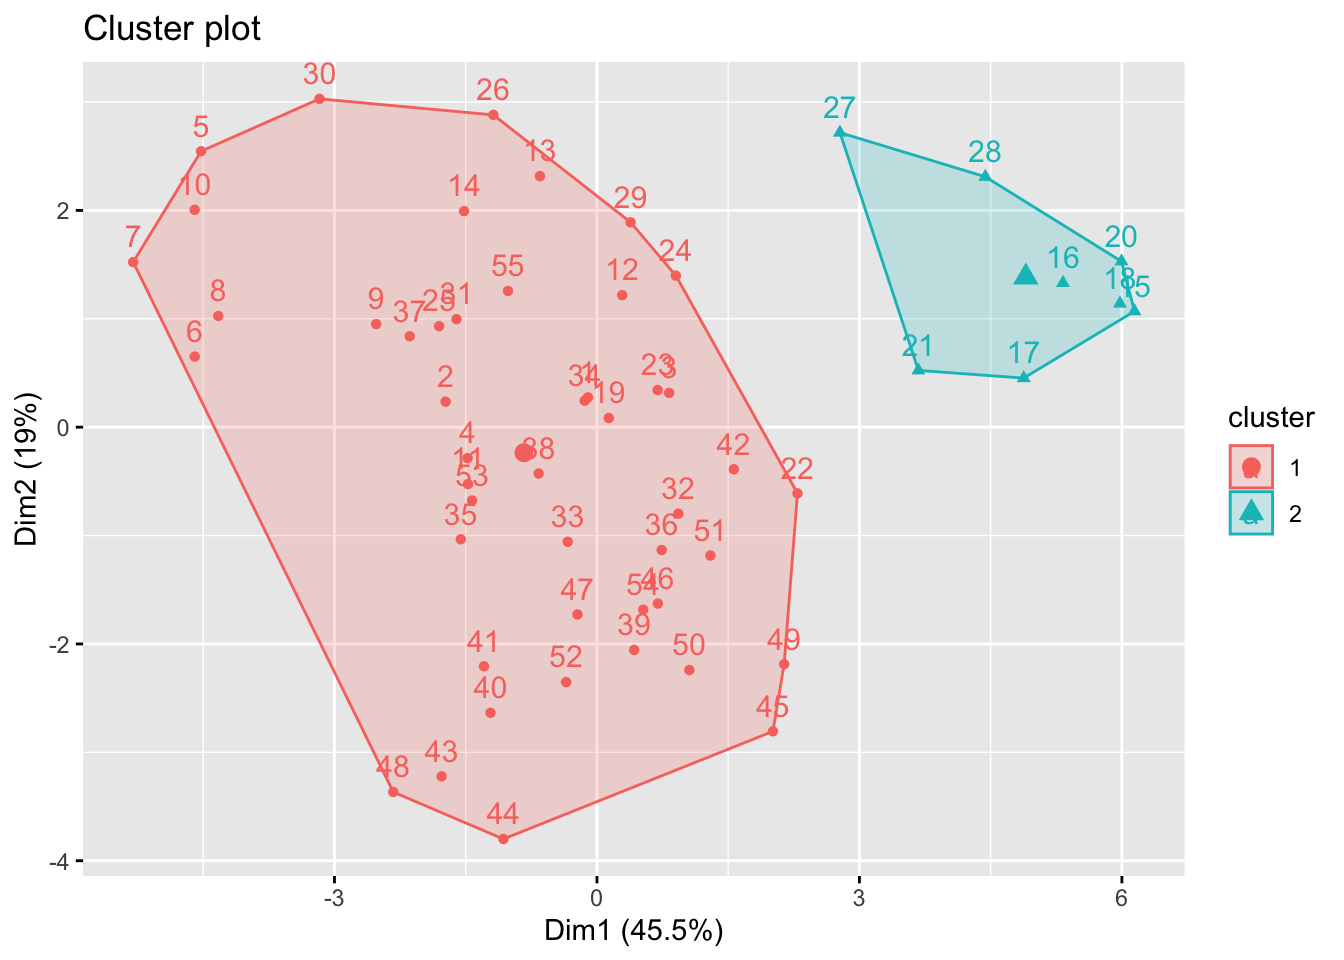
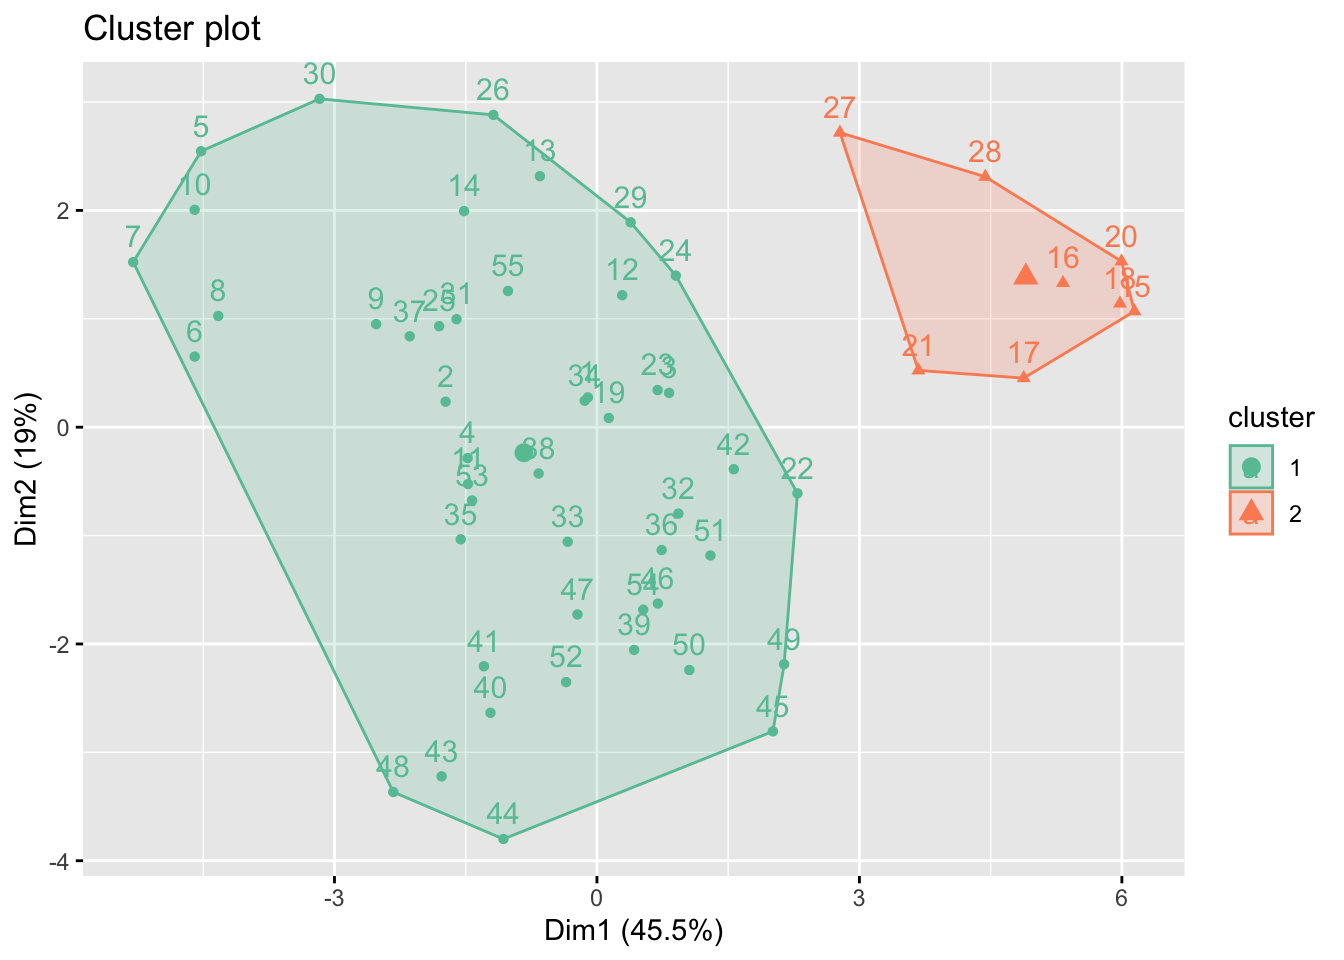
Fixed prediction modeling

diff --git a/additional_prediction.html b/additional_prediction.html
@@ -381,9 +381,9 @@ div.tocify {
 
 <div id="risk-scoring" class="section level2">
 <h2>Risk Scoring</h2>
-<p>Following our regression work, we decided to make our insights more actionable by developing a novel scoring method capable of indicating whether a PUMA is at relatively lower or higher risk of achieving some COVID-19-related outcome. To demonstrate the method, we developed a risk score for whether a PUMA is likely to have achieved or not achieved a vaccination rate of 70% among residents, corresponding to the level of population immunity generally considered requisite to “halt the pandemic.” That said, our method is applicable to other outcomes as well, and one might imagine using it to score a given PUMA on the possibility of a hospitalization rate above X%, or a death rate above Y%.</p>
-<p>The risk scoring method we developed is predicated on (regularized, lasso) logistic regression, used most often for classification tasks because predictions can be interpreted as class probabilities. Regularization further prevents over-fitting of the model.</p>
-<p>First, we defined outcomes as 1 for below 70% vaccination and 0 for equal to or above 70% vaccination and converted our set of predictors to matrix form.</p>
+<p>Following our regression work, we decided to make our insights more actionable by developing a novel scoring method capable of indicating whether a PUMA is at relatively lower or higher risk of achieving some COVID-19-related outcome. To demonstrate the method, we developed a risk score for whether a PUMA is likely to achieve the 70% resident vaccination rate, which has been <a href="https://www.ama-assn.org/delivering-care/public-health/what-doctors-wish-patients-knew-about-covid-19-herd-immunity#:~:text=Some%20epidemiologists%20have%20estimated%20that,already%20killed%20over%20620%2C000%20Americans.">considered by many scientists</a> (pre-delta, at least!) as the requite immunization level required for herd immunity to “halt the pandemic.” That said, our method is applicable to other outcomes as well, and one might imagine using it to score a given PUMA on the possibility of a hospitalization rate above X%, or a death rate above Y%.</p>
+<p>The risk scoring method we developed is predicated on regularized logistic regression, used most often for classification tasks because predictions can be interpreted as class probabilities. Regularization further prevents over-fitting of the model.</p>
+<p>First, we defined our binary outcome: 1 for below 70% vaccination, and 0 for equal to or above 70% vaccination. Then, we converted our set of predictors to matrix form.</p>
 <pre class="r"><code># 1 indicates BELOW 70% vaccination rate
 logistic_df = nyc_puma_summary %&gt;% 
   mutate(
@@ -396,7 +396,7 @@ x = model.matrix(below_herd_vax ~ ., logistic_df)[,-1]
 
 # Define outcomes
 y = logistic_df$below_herd_vax</code></pre>
-<p>We then trained a glmnet model on our training data using 5-fold cross-validation repeated 100 times given the large number of predictors compared to our mere 55 PUMA samples, and because we were interested in predicting the risk score of vaccination rate for each PUMA in our data set (see code below).</p>
+<p>We proceeded to train a glmnet lasso model on our training data using 5-fold cross-validation repeated 100 times given the large number of predictors compared to our mere 55 PUMA samples, and because we were interested in predicting the risk score of vaccination rate for each PUMA in our data set:</p>
 <pre class="r"><code>set.seed(777)
 vax_cv &lt;- trainControl(method = &quot;repeatedcv&quot;, number = 5, repeats = 100, 
                        savePredictions = T
@@ -410,7 +410,7 @@ lasso_model &lt;- train(below_herd_vax ~ ., data = logistic_df,
                        .alpha = 1,
                        .lambda = seq(0.0001, 1, length = 100)),
                      family = &quot;binomial&quot;)</code></pre>
-<p>Through our lasso regression, we found an optimal lambda tuning parameter of 0.0102, and generated a model prediction accuracy of 0.886 (~87%). Generally, however, obtaining the kappa value averaged over the simulated confusion matrices is a more useful metric for prediction given unbalanced classes (of our 55 PUMAs, 41 achieve vaccination rate &gt;= 70%, and only 14 do not).</p>
+<p>Through our lasso regression, we found an optimal lambda tuning parameter of 0.0102, and generated a model prediction accuracy of 0.886 (~89%). Generally, however, obtaining the kappa value averaged over the simulated confusion matrices is a more useful metric for prediction given unbalanced classes (of our 55 PUMAs, only 14 actually achieved vaccination rate &gt;= 70% at time of data entry, while 41 did not).</p>
 <div id="confusion-matrix" class="section level3">
 <h3>Confusion Matrix</h3>
 <pre class="r"><code>coef &lt;- coef(lasso_model$finalModel, lasso_model$bestTune$lambda)
@@ -471,15 +471,18 @@ cm = caret::confusionMatrix(table(sub_lasso$pred, sub_lasso$obs))
 
 draw_confusion_matrix(cm)</code></pre>
 <p><img src="additional_prediction_files/figure-html/resulting%20confusion%20matrix-1.png" width="672" /></p>
-<p>Our optimal model’s averaged kappa was 0.63, which is considered reasonably decent, but again suggests that the limited number of in-sample data points may result in model over-fitting.</p>
-<p>Notably, feature selection from our lasso regression discovered that the most important predictors of risk for sub-70% vaccination were insurance composition, employment composition, poverty composition, and welfare composition in a given PUMA – largely aligned with key correlates of vaccination noted in our exploratory analysis.</p>
+<p>Our optimal model’s averaged kappa was 0.63, which is considered <a href="https://www.ncbi.nlm.nih.gov/pmc/articles/PMC3900052/">reasonably decent, or “moderate,”</a>, but again suggests that the limited number of in-sample data points may result in model over-fitting.</p>
 </div>
 <div id="feature-selection" class="section level3">
 <h3>Feature Selection</h3>
-<pre class="r"><code>lambda  &lt;- seq(0.0001, 1, length = 100)
+<p>Notably, feature selection from our lasso regression discovered that the most important predictors of risk for sub-70% vaccination were insurance composition, employment composition, poverty composition, and welfare composition in a given PUMA – largely aligned with key correlates of vaccination noted in our exploratory analysis.</p>
+<pre class="r"><code># Set grid for lambda values
+lambda  &lt;- seq(0.0001, 1, length = 100)
 
+# Select best lambda
 lambda_opt = lasso_model$bestTune$lambda
 
+# Plot coefficient estimates as lambda varies
 result_plot &lt;- broom::tidy(lasso_model$finalModel) %&gt;% 
   select(term, lambda, estimate) %&gt;% 
   complete(term, lambda, fill = list(estimate = 0) ) %&gt;% 
@@ -492,11 +495,12 @@ result_plot &lt;- broom::tidy(lasso_model$finalModel) %&gt;%
 
 result_plot</code></pre>
 <p><img src="additional_prediction_files/figure-html/plotting%20predictors%20against%20lambda-1.png" width="672" /></p>
-<p>Again, we wanted to move beyond binary classification to develop a risk score. Generally, in logistic regression, when a data point is predicted with probability &gt; 0.5 to be a “1,” the model classifies it as a 1, and otherwise as a 0. We obtained risk scores not only by classifying PUMAs as above or below 70% vaccination rate using our prediction model, but by obtaining the exact probability of a given data point being a 1. For instance, if a PUMA has an 85% chance of being below 70% vaccination rate according to our classifier, its risk score would be 85, even though our model would binarily predict it to be a “1” rather than a “0.”</p>
 </div>
 <div id="risk-score-prediction" class="section level3">
 <h3>Risk Score Prediction</h3>
-<pre class="r"><code>lambda &lt;- lasso_model$bestTune$lambda
+<p>Again, we wanted to move beyond binary classification to develop a risk score. Generally, in logistic regression, when a data point is predicted with probability &gt; 0.5 to be a “1,” the model classifies it as a 1, and otherwise as a 0. We obtained risk scores not only by classifying PUMAs as above or below 70% vaccination rate using our prediction model, but by obtaining the exact probability of a given data point being a 1. For instance, if a PUMA has an 85% chance of being below 70% vaccination rate according to our classifier, its risk score would be 85, even though our model would binarily predict it to be a “1” rather than a “0.”</p>
+<pre class="r"><code># Finalize risk predictions
+lambda &lt;- lasso_model$bestTune$lambda
 lasso_fit = glmnet(x, y, lambda = lambda, family = &quot;binomial&quot;)
 risk_predictions = (round((predict(lasso_fit, x, type = &quot;response&quot;))*100, 1))
 
@@ -506,10 +510,12 @@ puma &lt;- nyc_puma_summary %&gt;%
 vax &lt;- logistic_df %&gt;% 
   select(below_herd_vax)
 
+# Bind predictions and actuals for graphing / risk scores
 risk_prediction &lt;- 
   bind_cols(puma, vax, as.vector(risk_predictions)) %&gt;%
   rename(risk_prediciton = ...3)
 
+# Plot risk predictions
 risk_prediction %&gt;%
   mutate(puma = fct_reorder(puma, risk_prediciton, .desc = TRUE)) %&gt;%
   ggplot(aes(x = puma, y = risk_prediciton, fill = below_herd_vax)) + 
@@ -518,7 +524,7 @@ risk_prediction %&gt;%
   theme(axis.text.x = element_text(angle = 90, vjust = 0.5, hjust = 1)) +
   labs(title = &quot;Predicting Risk Score of Vaccination Rate across PUMA&quot;,
        x = &quot;PUMA&quot;, y = &quot;Predicted Risk Score&quot;, fill = &quot;Actual Vax Status&quot;) + 
-  scale_fill_viridis(discrete = TRUE, labels = c(&quot;Below 70%&quot;, &quot;Above 70%&quot;))</code></pre>
+  scale_fill_viridis(discrete = TRUE, labels = c(&quot;Above 70%&quot;, &quot;Below 70%&quot;))</code></pre>
 <p><img src="additional_prediction_files/figure-html/visualizing%20risk%20scores%20by%20PUMA-1.png" width="672" /></p>
 </div>
 </div>
@@ -585,7 +591,7 @@ fviz_dist(distance, gradient = list(low = &quot;#00AFBB&quot;, mid = &quot;white
 k_scaled = kmeans(for_clustering, centers = 3)
 
 # Visualize cluster plot with reduction to two dimensions
-fviz_cluster(k_scaled, data = for_clustering)</code></pre>
+fviz_cluster(k_scaled, data = for_clustering, palette = &quot;Set2&quot;)</code></pre>
 <p><img src="additional_prediction_files/figure-html/scaled%20clustering-2.png" width="672" /></p>
 <pre class="r"><code># Bind with outcomes and color clusters
 full_df = for_clustering %&gt;% 
@@ -596,14 +602,18 @@ full_df = for_clustering %&gt;%
   )</code></pre>
 <p>Because we settled on setting the number of clusters at three relatively arbitrarily, we decided to evaluate the clustering quality using both WSS, silhouette, and gap methods.</p>
 <pre class="r"><code># Check where elbow occurs using WSS method
-fviz_nbclust(for_clustering, kmeans, method = &quot;wss&quot;)</code></pre>
+fviz_nbclust(for_clustering, kmeans, method = &quot;wss&quot;) + 
+  theme_bw()</code></pre>
 <p><img src="additional_prediction_files/figure-html/unnamed-chunk-1-1.png" width="672" /></p>
 <pre class="r"><code># Check for optimal number of clusters using silhouette method
-fviz_nbclust(for_clustering, kmeans, method = &quot;silhouette&quot;)</code></pre>
+fviz_nbclust(for_clustering, kmeans, method = &quot;silhouette&quot;) + 
+  theme_bw()</code></pre>
 <p><img src="additional_prediction_files/figure-html/unnamed-chunk-1-2.png" width="672" /></p>
 <pre class="r"><code># Check number of clusters that minimize gap statistic
 gap_stat = clusGap(for_clustering, FUN = kmeans, nstart = 25, K.max = 20, B = 50)
-fviz_gap_stat(gap_stat)</code></pre>
+
+fviz_gap_stat(gap_stat) + 
+  theme_bw()</code></pre>
 <p><img src="additional_prediction_files/figure-html/unnamed-chunk-1-3.png" width="672" /></p>
 <p>The elbow in our WSS plot indicates that three clusters may be optimal, whereas the silhouette plot shows an average silhouette width optimized at two clusters. Finally, the gap plot shows that clustering is actually optimized when the number of clusters equals 1 – i.e. when no clustering occurs. The relative lack of concordance between these assessments of clustering quality is no surprise given the fact that our model is fit on only 55 predictors. For completeness, we re-modeled our clustering of predictors with only k = 2 clusters, and again tried to visualize where these clusters of PUMAs were distributed on the hospitalization/vaccination rate axes:</p>
 <pre class="r"><code># Scale predictors
@@ -620,7 +630,7 @@ fviz_dist(distance, gradient = list(low = &quot;#00AFBB&quot;, mid = &quot;white
 k_scaled2 = kmeans(for_clustering, centers = 2)
 
 # Visualize cluster plot with reduction to two dimensions
-fviz_cluster(k_scaled2, data = for_clustering)</code></pre>
+fviz_cluster(k_scaled2, data = for_clustering, palette = &quot;Set2&quot;)</code></pre>
 <p><img src="additional_prediction_files/figure-html/scaled%20-%20two%20clusters-2.png" width="672" /></p>
 <pre class="r"><code># Bind with outcomes and color clusters
 full_df = for_clustering %&gt;% 
